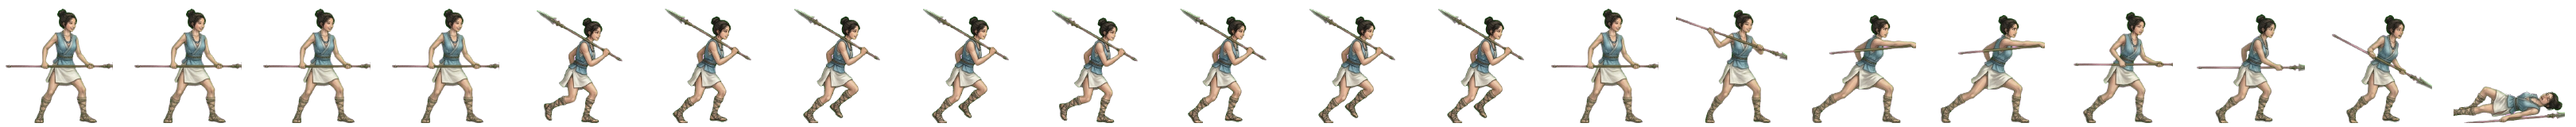
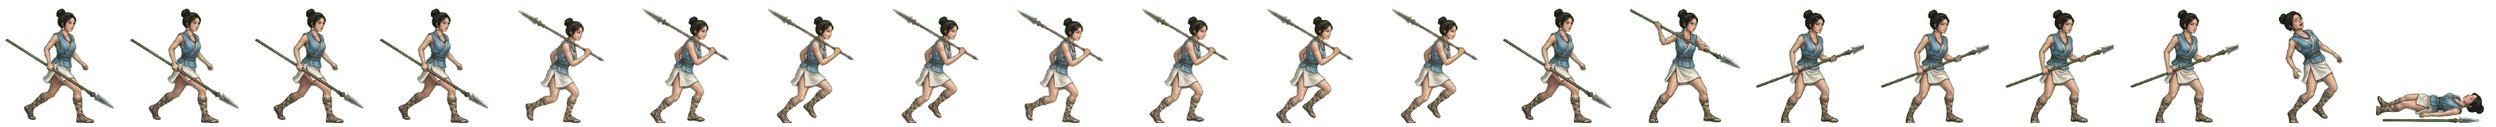
전투 띠 새로: 사로 물새 동작 다시 — 창날 달린 창을 두 손으로 앞으로 겨눈다 (창날 없는 자루 찌르기 고침 · 제미나이 u/0 · 11-09 띠 검수) (형 11-08)
Claude-Session: https://claude.ai/code/session_01TRiuNAG8xSjdmjCFpc8Rd5

diff --git a/src/ui/realm/battle-strikes.ts b/src/ui/realm/battle-strikes.ts
@@ -143,7 +143,7 @@ const CONTACT: Readonly<Record<string, [number, number, number]>> = {
   'gen-haebi': [14, 0.87, 0.53], 'gen-heo': [14, 0.94, 0.46], 'gen-hyeokgeose': [14, 0.83, 0.94],
   'gen-hyeopbo': [14, .93, .21], 'gen-malgalgi': [14, 0.88, 0.28], 'gen-mari': [14, .98, .47],
   'gen-oi': [14, .98, .48], 'gen-onjo': [14, 0.83, 0.93], 'gen-soebi': [14, 0.80, 0.95],
-  'gen-soseono': [14, 0.92, 0.31], 'gen-maryeo': [14, 0.91, 0.79], 'gen-horselord': [14, 0.89, 0.25], 'gen-olddaeso': [14, 0.93, 0.91], 'gen-maro': [14, 0.97, 0.49], 'gen-gwaeyu': [14, 0.98, 0.71], 'gen-daemusin': [14, 0.91, 0.38], 'gen-tahae': [14, 0.91, 0.74], 'gen-ocheongan': [14, 0.82, 0.49], 'gen-yusugan': [14, 0.95, 0.70], 'gen-odogan': [14, 0.93, 0.28], 'gen-pidogan': [14, 0.94, 0.75], 'gen-yeodogan': [14, 0.93, 0.57], 'gen-adogan': [14, 0.95, 0.41], 'gen-musoe': [14, 0.94, 0.39], 'gen-suro': [14, 0.82, 0.53], 'gen-waechief': [14, 0.95, 0.68], 'gen-hojin': [14, 0.97, 0.64], 'gen-jita': [14, 0.94, 0.34], 'gen-guryema': [14, 0.89, 0.28], 'gen-jibaekho': [14, 0.97, 0.33], 'gen-sobeol': [14, 0.95, 0.33], 'gen-alpyeong': [14, 0.95, 0.54], 'gen-hogong': [14, 0.98, 0.27], 'gen-geumbawi': [14, 0.91, 0.92], 'gen-keundol': [14, 0.90, 0.68], 'gen-jinha': [14, 0.76, 0.93], 'gen-duman': [14, 0.97, 0.39], 'gen-gomok': [14, 0.94, 0.57], 'gen-hneoul': [14, 0.92, 0.27], 'gen-tneoul': [14, 0.84, 0.57], 'gen-sdallae': [14, 0.89, 0.29], 'gen-yucheongan': [14, 0.97, 0.64], 'gen-sincheongan': [14, 0.91, 0.71], 'gen-singwigan': [14, 0.91, 0.27], 'gen-mdallae': [14, 0.98, 0.30], 'gen-mulbeom': [14, 0.97, 0.36], 'gen-beomi': [14, 0.88, 0.43], 'gen-danbi': [14, 0.90, 0.30], 'gen-mulsae': [14, 0.87, 0.36], 'gen-darae': [14, 0.89, 0.29], 'gen-mir': [14, 0.91, 0.33], 'gen-wan': [14, 0.94, 0.30], 'gen-gom': [14, 0.94, 0.74], 'gen-sagong': [14, 0.79, 0.96], 'gen-halla': [14, 0.86, 0.46], 'gen-areum': [14, 0.86, 0.65], 'gen-dokmudeom': [14, 0.92, 0.29], 'gen-beom': [14, 0.98, 0.28], 'gen-baram': [14, 0.96, 0.24], 'gen-goeun': [14, 0.95, 0.66], 'gen-byeol': [14, 0.76, 0.96], 'gen-sinneoul': [14, 0.94, 0.33], 'gen-haesol': [14, 0.91, 0.47], 'gen-odi': [14, 0.96, 0.46], 'gen-irang': [14, 0.86, 0.30], 'gen-dalli': [14, 0.89, 0.32], 'gen-bakdal': [14, 0.94, 0.27], 'gen-noeul': [14, 0.88, 0.27], 'gen-maehwa': [14, 0.90, 0.31], 'gen-gaon': [14, 0.98, 0.59], 'gen-eomni': [14, 0.96, 0.42], 'gen-nuri': [14, 0.98, 0.34], 'gen-bira': [14, 0.88, 0.33], 'gen-gureum': [14, 0.98, 0.42],
+  'gen-soseono': [14, 0.92, 0.31], 'gen-maryeo': [14, 0.91, 0.79], 'gen-horselord': [14, 0.89, 0.25], 'gen-olddaeso': [14, 0.93, 0.91], 'gen-maro': [14, 0.97, 0.49], 'gen-gwaeyu': [14, 0.98, 0.71], 'gen-daemusin': [14, 0.91, 0.38], 'gen-tahae': [14, 0.91, 0.74], 'gen-ocheongan': [14, 0.82, 0.49], 'gen-yusugan': [14, 0.95, 0.70], 'gen-odogan': [14, 0.93, 0.28], 'gen-pidogan': [14, 0.94, 0.75], 'gen-yeodogan': [14, 0.93, 0.57], 'gen-adogan': [14, 0.95, 0.41], 'gen-musoe': [14, 0.94, 0.39], 'gen-suro': [14, 0.82, 0.53], 'gen-waechief': [14, 0.95, 0.68], 'gen-hojin': [14, 0.97, 0.64], 'gen-jita': [14, 0.94, 0.34], 'gen-guryema': [14, 0.89, 0.28], 'gen-jibaekho': [14, 0.97, 0.33], 'gen-sobeol': [14, 0.95, 0.33], 'gen-alpyeong': [14, 0.95, 0.54], 'gen-hogong': [14, 0.98, 0.27], 'gen-geumbawi': [14, 0.91, 0.92], 'gen-keundol': [14, 0.90, 0.68], 'gen-jinha': [14, 0.76, 0.93], 'gen-duman': [14, 0.97, 0.39], 'gen-gomok': [14, 0.94, 0.57], 'gen-hneoul': [14, 0.92, 0.27], 'gen-tneoul': [14, 0.84, 0.57], 'gen-sdallae': [14, 0.89, 0.29], 'gen-yucheongan': [14, 0.97, 0.64], 'gen-sincheongan': [14, 0.91, 0.71], 'gen-singwigan': [14, 0.91, 0.27], 'gen-mdallae': [14, 0.98, 0.30], 'gen-mulbeom': [14, 0.97, 0.36], 'gen-beomi': [14, 0.88, 0.43], 'gen-danbi': [14, 0.90, 0.30], 'gen-mulsae': [14, 0.93, 0.36], 'gen-darae': [14, 0.89, 0.29], 'gen-mir': [14, 0.91, 0.33], 'gen-wan': [14, 0.94, 0.30], 'gen-gom': [14, 0.94, 0.74], 'gen-sagong': [14, 0.79, 0.96], 'gen-halla': [14, 0.86, 0.46], 'gen-areum': [14, 0.86, 0.65], 'gen-dokmudeom': [14, 0.92, 0.29], 'gen-beom': [14, 0.98, 0.28], 'gen-baram': [14, 0.96, 0.24], 'gen-goeun': [14, 0.95, 0.66], 'gen-byeol': [14, 0.76, 0.96], 'gen-sinneoul': [14, 0.94, 0.33], 'gen-haesol': [14, 0.91, 0.47], 'gen-odi': [14, 0.96, 0.46], 'gen-irang': [14, 0.86, 0.30], 'gen-dalli': [14, 0.89, 0.32], 'gen-bakdal': [14, 0.94, 0.27], 'gen-noeul': [14, 0.88, 0.27], 'gen-maehwa': [14, 0.90, 0.31], 'gen-gaon': [14, 0.98, 0.59], 'gen-eomni': [14, 0.96, 0.42], 'gen-nuri': [14, 0.98, 0.34], 'gen-bira': [14, 0.88, 0.33], 'gen-gureum': [14, 0.98, 0.42],
   'gen-biryu': [14, 0.90, 0.35], 'gen-geumha': [14, 0.94, 0.61], 'gen-geota': [14, 0.86, 0.47], 'gen-soebo': [14, 0.87, 0.57],
   'gen-gaennae': [14, 249 / 264, 47 / 160],
   'gen-budeul': [14, 266 / 280, 51 / 160],

diff --git a/src/realm/data/art.ts b/src/realm/data/art.ts
@@ -533,7 +533,7 @@ export const GEN_ANIM: Readonly<Partial<Record<string, { ar: number; body: numbe
   wan: { ar: 145 / 160, body: 0.906, bow: true }, // 11-08 초상대로 다시 (형: 「투구 쓰고 원본과 다르다」 · 제미나이 걷기 4×2 + 동작 4×2 → 20컷 · assets_src/realm/gemini/generals2) · 11-08 처음 · 완산 완(흰 깃·초록 끈 말총머리·이끼빛 짧은 저고리·맥궁 · 준비→만작→발사→피격→쓰러짐)
   mir: { ar: 142 / 160, body: 0.900, bow: true }, // 11-08 초상대로 다시 (형: 「투구 쓰고 원본과 다르다」 · 제미나이 걷기 4×2 + 동작 4×2 → 20컷 · assets_src/realm/gemini/generals2) · 11-08 처음 · 고구려 미르 동작 다시 · 걷기와 같은 옷·같은 크기 (11-09 검수)
   darae: { ar: 150 / 160, body: 0.906, bow: true }, // 11-08 초상대로 다시 (형: 「투구 쓰고 원본과 다르다」 · 제미나이 걷기 4×2 + 동작 4×2 → 20컷 · assets_src/realm/gemini/generals2) · 11-08 처음 · 부여 다래(흰 여우털 모자·털 두른 사슴 가죽 겉옷·짧은 털 치마·맥궁 · 준비→만작→발사→피격→쓰러짐)
-  mulsae: { ar: 162 / 160, body: 0.900 }, // 11-08 초상대로 다시 (형: 「투구 쓰고 원본과 다르다」 · 제미나이 걷기 4×2 + 동작 4×2 → 20컷 · assets_src/realm/gemini/generals2) · 11-08 처음 · 양산 물새(올린 머리·민소매 하늘빛 윗옷·트인 흰 치마·창 찌르기)
+  mulsae: { ar: 157 / 160, body: 0.900 }, // 11-08 초상대로 다시 (형: 「투구 쓰고 원본과 다르다」 · 제미나이 걷기 4×2 + 동작 4×2 → 20컷 · assets_src/realm/gemini/generals2) · 11-08 처음 · 사로 물새 동작 다시 — 창날 달린 창을 두 손으로 앞으로 겨눈다 (창날 없는 자루 찌르기 고침 · 제미나이 u/0 · 11-09 띠 검수)
   danbi: { ar: 146 / 160, body: 0.906, bow: true }, // 11-08 초상대로 다시 (형: 「투구 쓰고 원본과 다르다」 · 제미나이 걷기 4×2 + 동작 4×2 → 20컷 · assets_src/realm/gemini/generals2) · 11-08 처음 · 사로 단비(흰 끈 말총머리·초록 테 흰 짧은 윗옷·맥궁 · 준비→만작→발사→피격→쓰러짐)
   beomi: { ar: 159 / 160, body: 0.900 }, // 11-08 초상대로 다시 (형: 「투구 쓰고 원본과 다르다」 · 제미나이 걷기 4×2 + 동작 4×2 → 20컷 · assets_src/realm/gemini/generals2) · 11-08 처음 · 진지 범이(헝클어진 짧은 머리·범 가죽 짧은 윗옷과 치마·넓은 쇠 창 찌르기 · 맨발)
   mulbeom: { ar: 155 / 160, body: 0.900 }, // 11-08 초상대로 다시 (형: 「투구 쓰고 원본과 다르다」 · 제미나이 걷기 4×2 + 동작 4×2 → 20컷 · assets_src/realm/gemini/generals2) · 11-08 처음 · 북옥저 물범(점박이 물범 가죽 두건 망토·짙은 남색 짧은 윗옷·밧줄·작살 찌르기)
